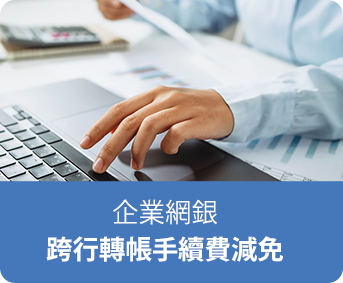
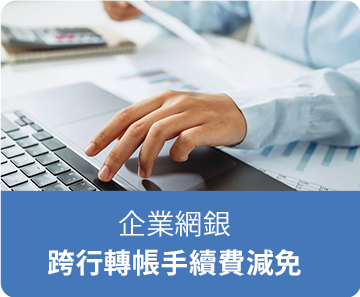
20220513

diff --git a/Business/index.html b/Business/index.html
@@ -49,14 +49,16 @@ th {
     .spacer2 {display: none !important;}
 }
 @media screen and (max-width: 768px) {
-    .mob-block{display: block !important;}
+    .mob-block {display: block !important;}
     .info-txt {font-size: 18px !important; line-height: 30px !important;}
 }
 @media screen and (max-width: 600px) {
-    .mob-none{display: none !important;}
+    .mob-none {display: none !important;}
     .info-tit {font-size: 22px !important; line-height: 36px !important;}
     .info-txt {font-size: 17px !important; line-height: 30px !important; text-align: left !important;}
     .box-tit {font-size: 30px !important;}
+    .txt-tit {font-size: 20px !important;}
+    .txt-cont {font-size: 16px !important; line-height: 24px !important;}
 }
 @media screen and (max-width: 430px) {
     table.column-break,
@@ -73,7 +75,7 @@ th {
 	.qrcode {
 		display: none !important;
 	}
-    .triangle{width: 50px !important;}
+    .triangle {width: 50px !important;}
     .info-tit {font-size: 19px !important; line-height: 32px !important;}
     .box-tit {font-size: 28px !important;}
 }
@@ -185,8 +187,8 @@ th {
                             <td width="30" style="font-size: 0">
                                 <img src="images/spacer.gif" width="30" alt="" border="0" />
                             </td>
-                            <td width="50" style="font-size: 0" class="spacer2">
-                                <img src="images/spacer.gif" width="50" alt="" border="0" />
+                            <td width="80" style="font-size: 0" class="spacer2">
+                                <img src="images/spacer.gif" width="80" alt="" border="0" />
                             </td>
                             <!-- main -->
                             <td>
@@ -211,18 +213,99 @@ th {
                                             <img src="images/spacer.gif" height="25" alt="" border="0" />
                                         </td>
                                     </tr>
-                                    <!-- btn -->
+                                    <!-- pic -->
                                     <tr>
-                                        <td style="font-size: 0">
+                                        <td>
                                             <table cellspacing="0" cellpadding="0" border="0" align="center">
                                                 <tr>
                                                     <td class="btnBox" valign="top">
-                                                        <img class="btn-pic" src="images/pic1.png" alt="企業網銀跨行轉帳手續費減免" border="0" style="width: 100%; max-width: 340px"/>
+                                                        <img class="btn-pic" src="images/pic1.png" alt="企業網銀跨行轉帳手續費減免" border="0" style="width: 100%; max-width: 360px"/>
                                                     </td>
-                                                    <td class="btnBox" width="3%"><img src="images/spacer.gif" alt="" border="0" /></td>
+                                                    <td class="btnBox" width="10px"><img src="images/spacer.gif" alt="" border="0" /></td>
                                                     <td class="btnBox" valign="top">
-                                                        <img class="btn-pic" src="images/pic2.png" alt="公司戶享階利活期存款優惠" border="0" style="width: 100%; max-width: 340px"/>
+                                                        <img class="btn-pic" src="images/pic2.png" alt="公司戶享階利活期存款優惠" border="0" style="width: 100%; max-width: 360px"/>
                                                     </td>
+                                                </tr>
+                                            </table>
+                                        </td>
+                                    </tr>
+                                    <tr>
+                                        <td height="25">
+                                            <img src="images/spacer.gif" height="25" alt="" border="0" />
+                                        </td>
+                                    </tr>
+                                    <tr>
+                                        <td height="15" class="spacer2">
+                                            <img src="images/spacer.gif" height="15" alt="" border="0" />
+                                        </td>
+                                    </tr>
+                                    <!-- 1 -->
+                                    <tr>
+                                        <td align="center">
+                                            <table width="100%" cellspacing="0" cellpadding="0" border="0" bgcolor="#ffffff" style="border-radius: 10px; padding: 20px;">
+                                                <tr>
+                                                    <td width="82">
+                                                        <img src="images/icon1.png" width="82" alt="">
+                                                    </td>
+                                                    <td width="20"><img src="images/spacer.gif" width="20" alt=""></td>
+                                                    <td style="color: #333333; font-size: 18px; line-height: 28px;" class="txt-cont"><span class="txt-tit" style="color: #005bac; font-size: 22px; line-height: 40px; font-weight: bold;">多元格式檔案</span><br>支援即時/預約/假日撥薪，客製化企業撥薪格式，轉換無煩惱。</td>
+                                                </tr>
+                                            </table>
+                                        </td>
+                                    </tr>
+                                    <tr>
+                                        <td height="25">
+                                            <img src="images/spacer.gif" height="25" alt="" border="0" />
+                                        </td>
+                                    </tr>
+                                    <!-- 2 -->
+                                    <tr>
+                                        <td align="center">
+                                            <table width="100%" cellspacing="0" cellpadding="0" border="0" bgcolor="#ffffff" style="border-radius: 10px; padding: 20px;">
+                                                <tr>
+                                                    <td width="82">
+                                                        <img src="images/icon2.png" width="82" alt="">
+                                                    </td>
+                                                    <td width="20"><img src="images/spacer.gif" width="20" alt=""></td>
+                                                    <td style="color: #333333; font-size: 18px; line-height: 28px;" class="txt-cont"><span class="txt-tit" style="color: #005bac; font-size: 22px; line-height: 40px; font-weight: bold;">密薪制設計</span><br>撥薪流程加密，分責分權管理，人資、會計都放心。</td>
+                                                </tr>
+                                            </table>
+                                        </td>
+                                    </tr>
+                                    <tr>
+                                        <td height="25">
+                                            <img src="images/spacer.gif" height="25" alt="" border="0" />
+                                        </td>
+                                    </tr>
+                                    <!-- 3 -->
+                                    <tr>
+                                        <td align="center">
+                                            <table width="100%" cellspacing="0" cellpadding="0" border="0" bgcolor="#ffffff" style="border-radius: 10px; padding: 20px;">
+                                                <tr>
+                                                    <td width="82">
+                                                        <img src="images/icon3.png" width="82" alt="">
+                                                    </td>
+                                                    <td width="20"><img src="images/spacer.gif" width="20" alt=""></td>
+                                                    <td style="color: #333333; font-size: 18px; line-height: 28px;" class="txt-cont"><span class="txt-tit" style="color: #005bac; font-size: 22px; line-height: 40px; font-weight: bold;">薪資撥款通知</span><br>薪資撥款預約成功、預約交易到期前及交易結果以電子郵件通知。</td>
+                                                </tr>
+                                            </table>
+                                        </td>
+                                    </tr>
+                                    <tr>
+                                        <td height="25">
+                                            <img src="images/spacer.gif" height="25" alt="" border="0" />
+                                        </td>
+                                    </tr>
+                                    <!-- 4 -->
+                                    <tr>
+                                        <td align="center">
+                                            <table width="100%" cellspacing="0" cellpadding="0" border="0" bgcolor="#ffffff" style="border-radius: 10px; padding: 20px;">
+                                                <tr>
+                                                    <td width="82">
+                                                        <img src="images/icon4.png" width="82" alt="">
+                                                    </td>
+                                                    <td width="20"><img src="images/spacer.gif" width="20" alt=""></td>
+                                                    <td style="color: #333333; font-size: 18px; line-height: 28px;" class="txt-cont"><span class="txt-tit" style="color: #005bac; font-size: 22px; line-height: 40px; font-weight: bold;">薪資入帳即時推播</span><br>薪資一入帳，行動銀行立即推播，讓您薪資入帳不漏接。</td>
                                                 </tr>
                                             </table>
                                         </td>
@@ -251,8 +334,8 @@ th {
                             <td width="30" style="font-size: 0">
                                 <img src="images/spacer.gif" width="30" alt="" border="0" />
                             </td>
-                            <td width="50" style="font-size: 0" class="spacer2">
-                                <img src="images/spacer.gif" width="50" alt="" border="0" />
+                            <td width="80" style="font-size: 0" class="spacer2">
+                                <img src="images/spacer.gif" width="80" alt="" border="0" />
                             </td>
                         </tr>
                     </table>
